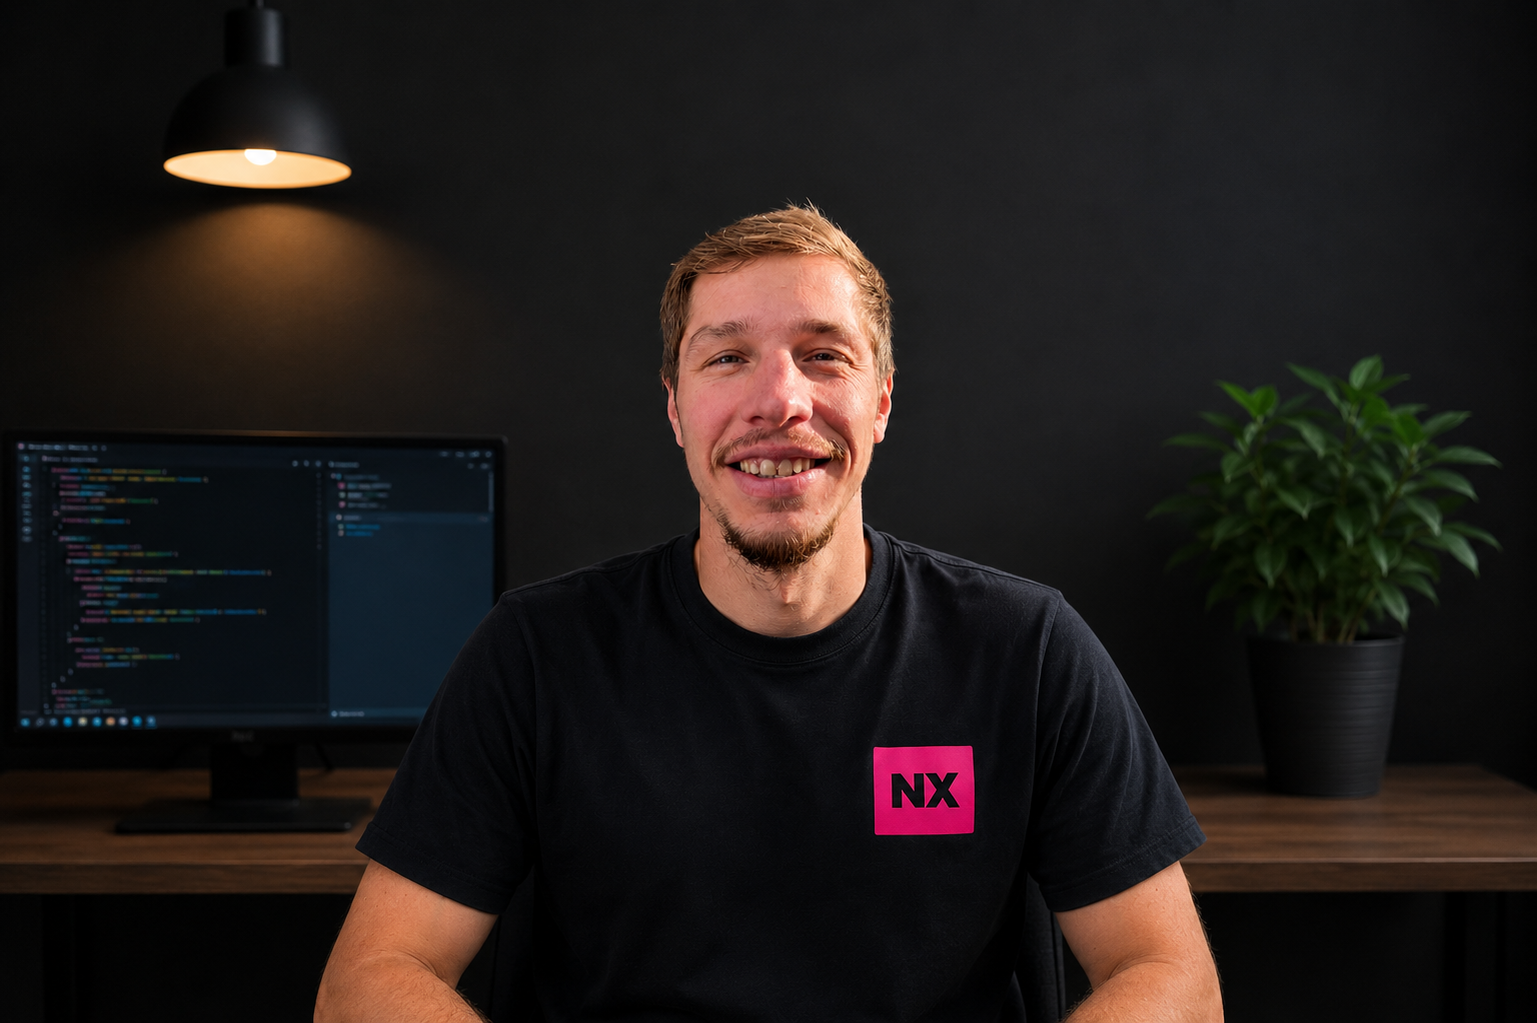
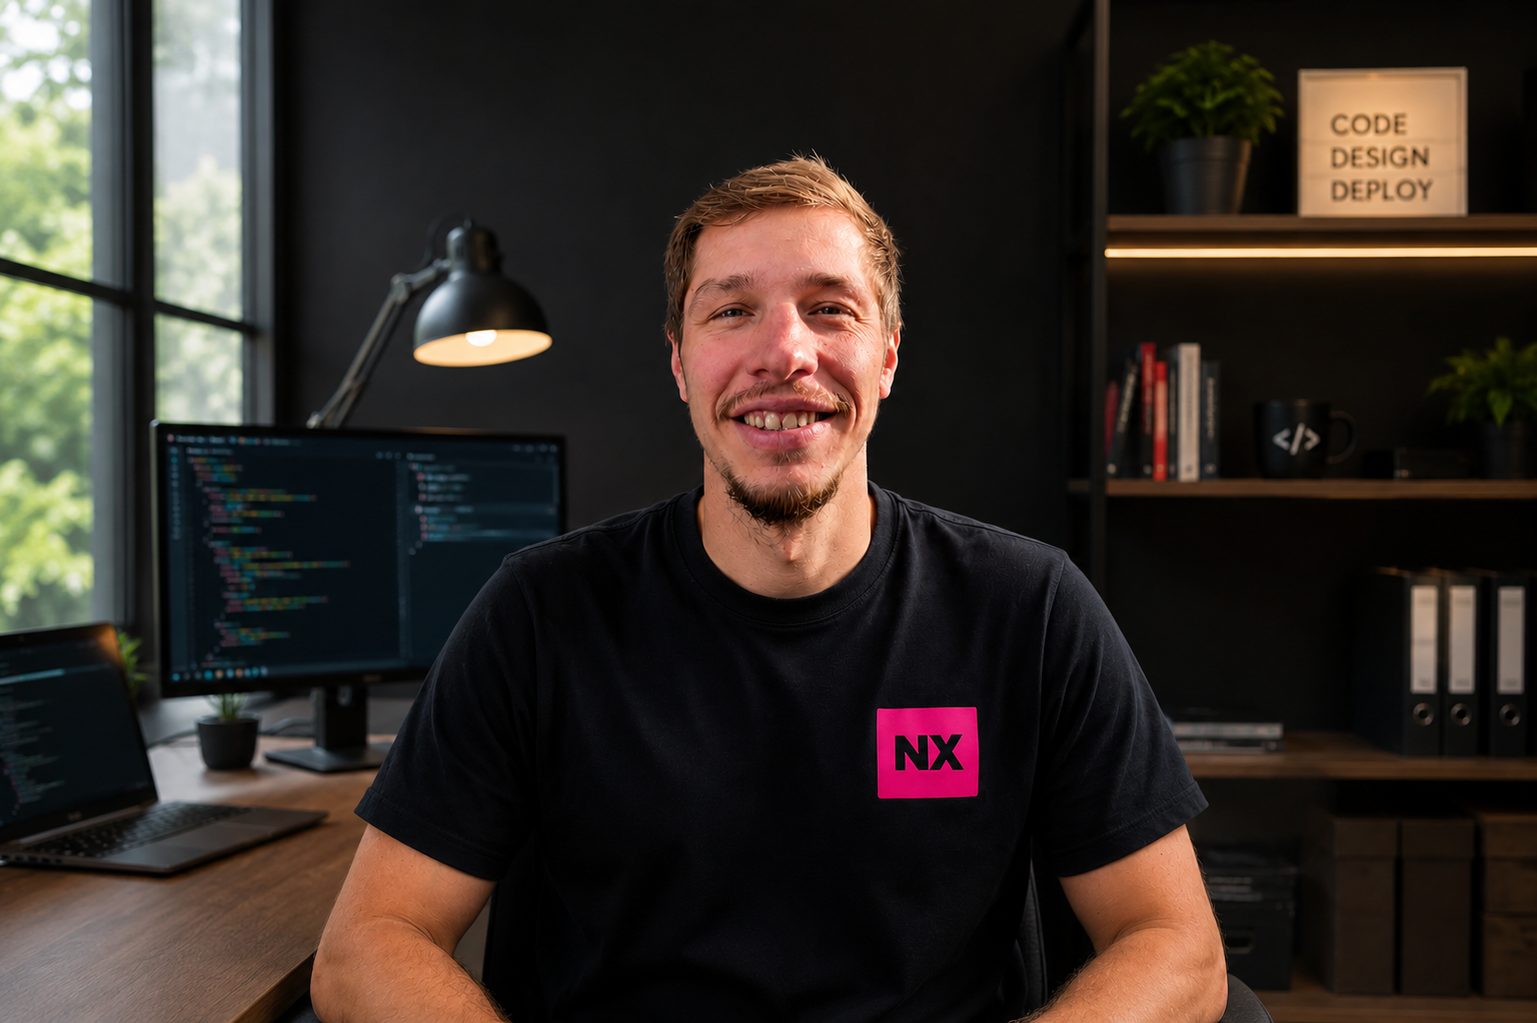
Equipo: foto nueva de Luciano y rol Marketing

diff --git a/index.html b/index.html
@@ -739,7 +739,7 @@
             </div>
             <figcaption>
               <span class="member__name">Luciano</span>
-              <span class="member__role">// Diseño</span>
+              <span class="member__role">// Marketing</span>
             </figcaption>
           </figure>
           <figure class="member">
